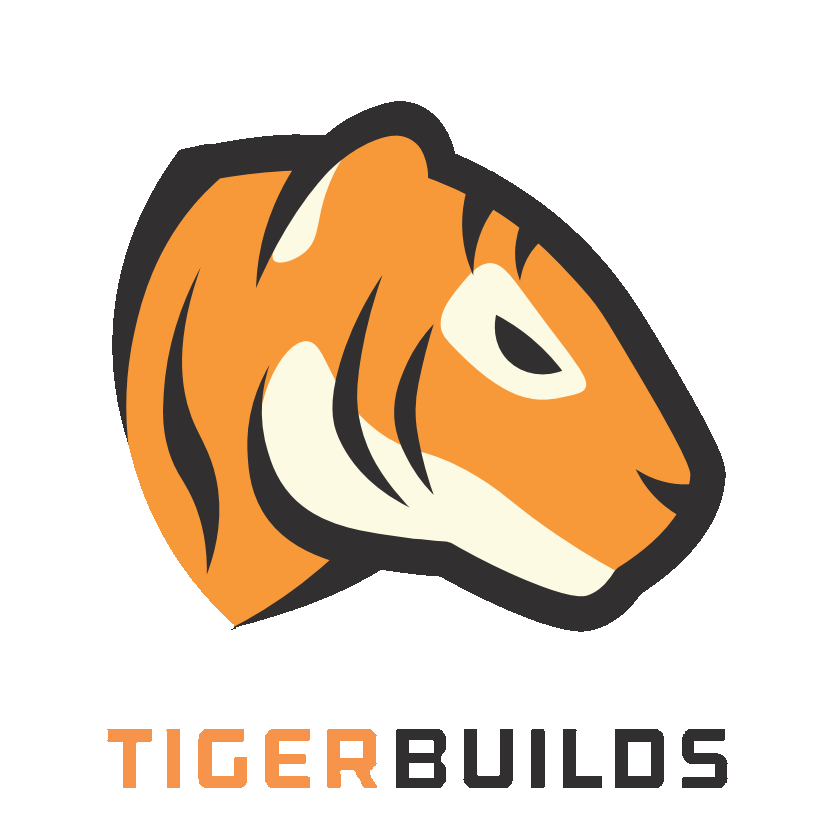
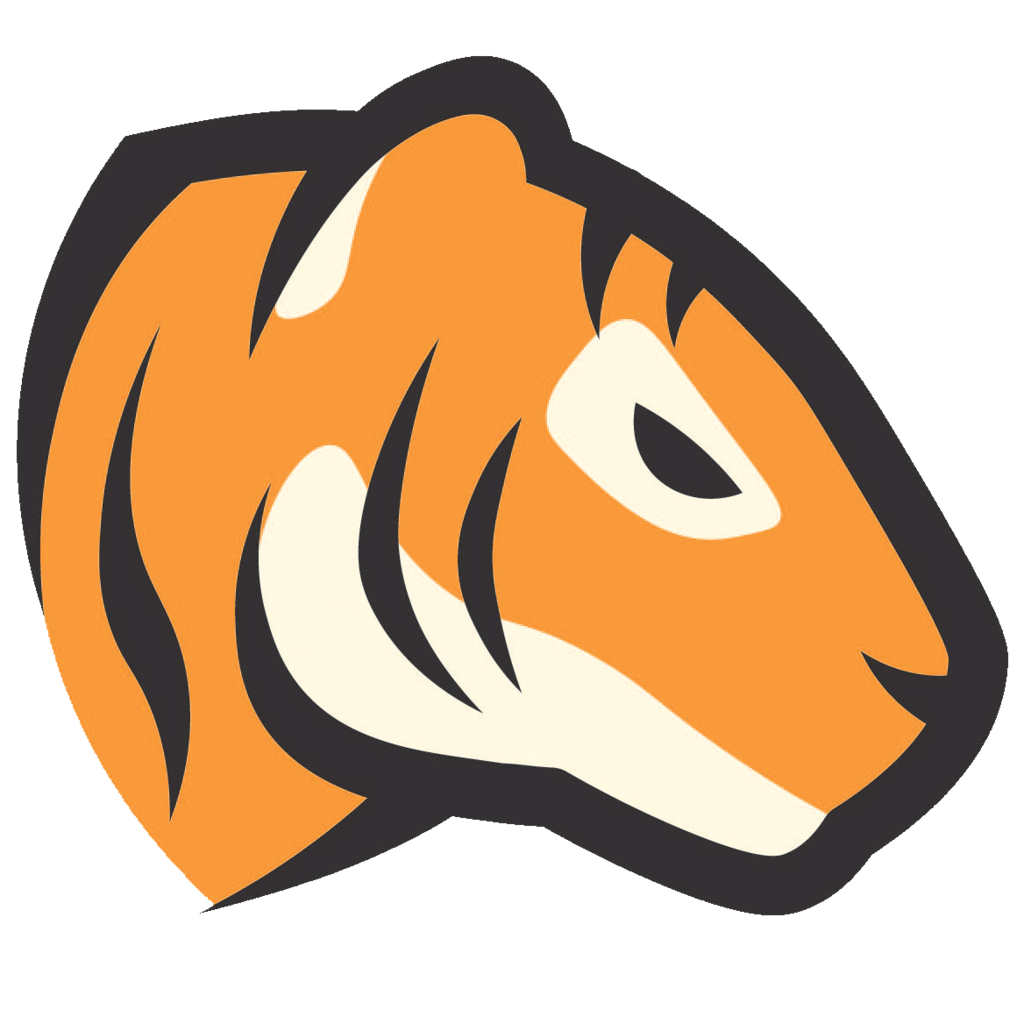
cleaned up a bit, moved name out of image to text instead for easier modification

diff --git a/style.css b/style.css
@@ -12,13 +12,13 @@ body {
 	left: 50%;
 	margin-top: -300px;
 	margin-left: -225px;
+	width: 450px;
 
 	color: #f89939;
 	font-weight: black;
 	font-family: Outage;
     font-size: 18px;
-    line-height: 26px;
-    width: 450px;
+    text-align: center;
 }
 
 .logo {
@@ -37,7 +37,6 @@ body {
 }
 
 .buttons {
-	text-align: center;
 	margin-bottom: 40px;
 }
 
@@ -63,4 +62,9 @@ a {
 
 label {
 	padding-top: 10px;
+}
+
+h2 {
+	display: inline;
+	margin-bottom: 0px;	
 }

diff --git a/index.html b/index.html
@@ -15,6 +15,8 @@
 		<div class="col s12 m4">
 			<div class="content">
 				<img class="logo" src="tiger_big.png">
+				<h2>tiger</h2>
+				<h2 style="color: black;">builds</h2>
 				<div class="buttons">
 					<h5>Coming Fall 2017</h5>
 					<button data-target="updatesModal" class="waves-effect btn-large white modal-trigger">Get Updates</button>
